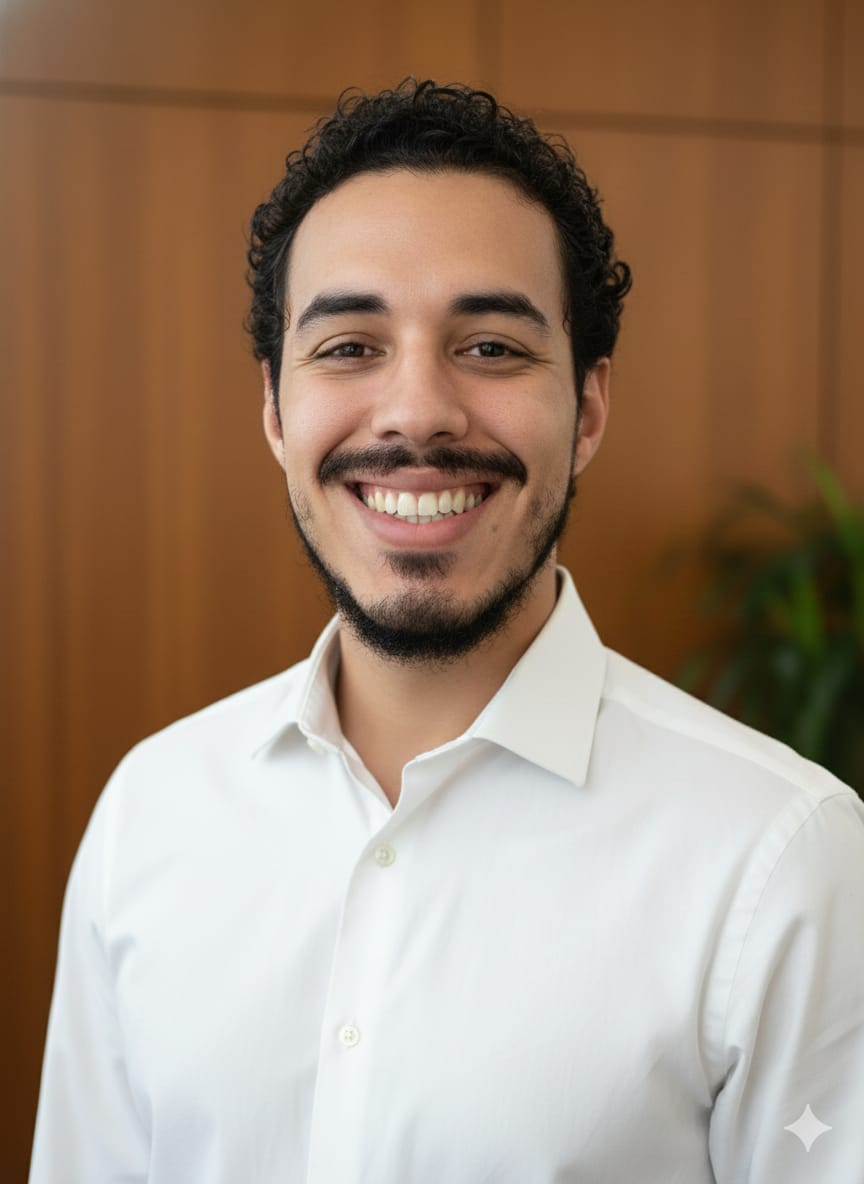
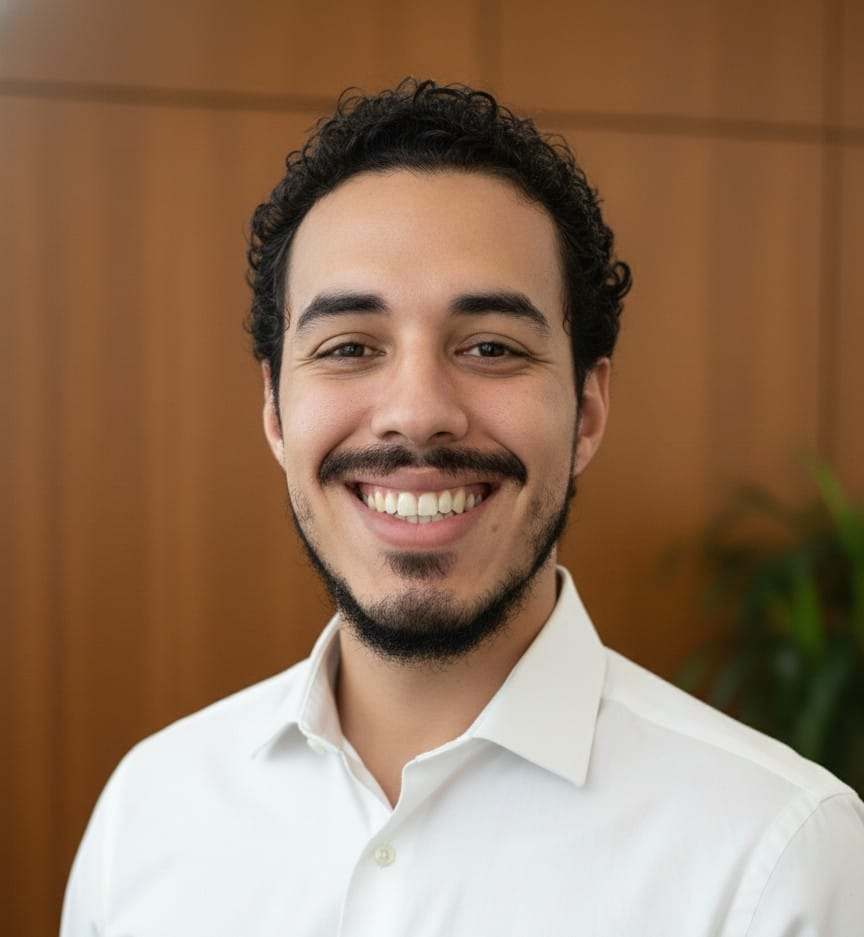
style: implement cyber-corporate terminal footer with social links and status indicator

diff --git a/src/components/Footer.js b/src/components/Footer.js
@@ -1,12 +1,15 @@
 'use client';
+
 import styled from 'styled-components';
 
 const FooterContainer = styled.footer`
   width: 100%;
-  padding: 40px 20px;
-  margin-top: 80px;
-  border-top: 1px solid rgba(255, 255, 255, 0.05);
+  padding: 60px 20px;
+  margin-top: 100px;
+  background: rgba(10, 11, 16, 0.4);
+  border-top: 1px solid rgba(0, 242, 255, 0.05);
   box-sizing: border-box;
+  position: relative;
 `;
 
 const FooterContent = styled.div`
@@ -14,36 +17,106 @@ const FooterContent = styled.div`
   margin: 0 auto;
   display: flex;
   justify-content: space-between;
-  align-items: center;
-  gap: 20px;
+  align-items: flex-end;
+  gap: 30px;
 
   @media (max-width: 768px) {
-    flex-direction: column; /* Empilha no mobile */
+    flex-direction: column;
+    align-items: center;
     text-align: center;
-    gap: 15px;
   }
 `;
 
-const Copyright = styled.p`
-  font-size: 0.85rem;
-  color: rgba(255, 255, 255, 0.5);
-  
-  span {
+const SystemStatus = styled.div`
+  display: flex;
+  flex-direction: column;
+  gap: 10px;
+
+  .terminal-text {
+    font-family: 'Fira Code', monospace;
+    font-size: 0.75rem;
     color: ${props => props.theme.colors.secondary};
+    text-transform: uppercase;
+    letter-spacing: 2px;
   }
+
+  .status-indicator {
+    display: flex;
+    align-items: center;
+    gap: 8px;
+    font-size: 0.8rem;
+    color: ${props => props.theme.colors.light}88;
+
+    &::before {
+      content: '';
+      width: 8px;
+      height: 8px;
+      background: #00ff64;
+      border-radius: 50%;
+      box-shadow: 0 0 10px #00ff64;
+      animation: pulse 2s infinite;
+    }
+  }
+
+  @keyframes pulse {
+    0% { opacity: 1; }
+    50% { opacity: 0.4; }
+    100% { opacity: 1; }
+  }
+`;
+
+const SocialLinks = styled.div`
+  display: flex;
+  gap: 20px;
+
+  a {
+    color: ${props => props.theme.colors.light}cc;
+    text-decoration: none;
+    font-size: 0.85rem;
+    font-family: 'Fira Code', monospace;
+    transition: all 0.3s ease;
+    padding: 5px 10px;
+    border: 1px solid transparent;
+
+    &:hover {
+      color: ${props => props.theme.colors.secondary};
+      border: 1px solid ${props => props.theme.colors.secondary}44;
+      background: ${props => props.theme.colors.secondary}11;
+      transform: translateY(-3px);
+    }
+  }
+`;
+
+const Copyright = styled.div`
+  font-size: 0.7rem;
+  color: ${props => props.theme.colors.light}44;
+  font-family: 'Fira Code', monospace;
+  text-transform: uppercase;
+  margin-top: 20px;
 `;
 
 export default function Footer() {
-  const currentYear = new Date().getFullYear();
-
   return (
     <FooterContainer>
       <FooterContent>
-        <Copyright>
-          © {currentYear} PORTFOLIO_V3.0 - <span>CODED_BY_PATRIC</span>
-        </Copyright>
+        <SystemStatus>
+          <span className="terminal-text">{">"} SYSTEM_STATUS: OPERATIONAL</span>
+          <span className="status-indicator">Disponível para novos projetos</span>
+          <Copyright>© 2026 PATRIC AUGUSTO</Copyright>
+        </SystemStatus>
+
+        <SocialLinks>
+          <a href="https://github.com/PatricAugusto" target="_blank" rel="noopener noreferrer">
+            [ GITHUB ]
+          </a>
+          <a href="https://www.linkedin.com/in/patric-augusto-bab47b240/" target="_blank" rel="noopener noreferrer">
+            [ LINKEDIN ]
+          </a>
+          <a href="https://wa.me/5555992066795" target="_blank" rel="noopener noreferrer">
+            [ WHATSAPP ]
+          </a>
+        </SocialLinks>
       </FooterContent>
     </FooterContainer>
   );
 }
-

diff --git a/src/app/page.js b/src/app/page.js
@@ -139,8 +139,8 @@ const ImageWrapper = styled.div`
   position: relative;
   top: 0;
   left: 0;
-  width: 350px;
-  height: 350px;
+  width: 320px;
+  height: 320px;
   background: linear-gradient(135deg, ${props => props.theme.colors.secondary}, ${props => props.theme.colors.accent});
   padding: 5px;
   animation: morph 8s ease-in-out infinite;
